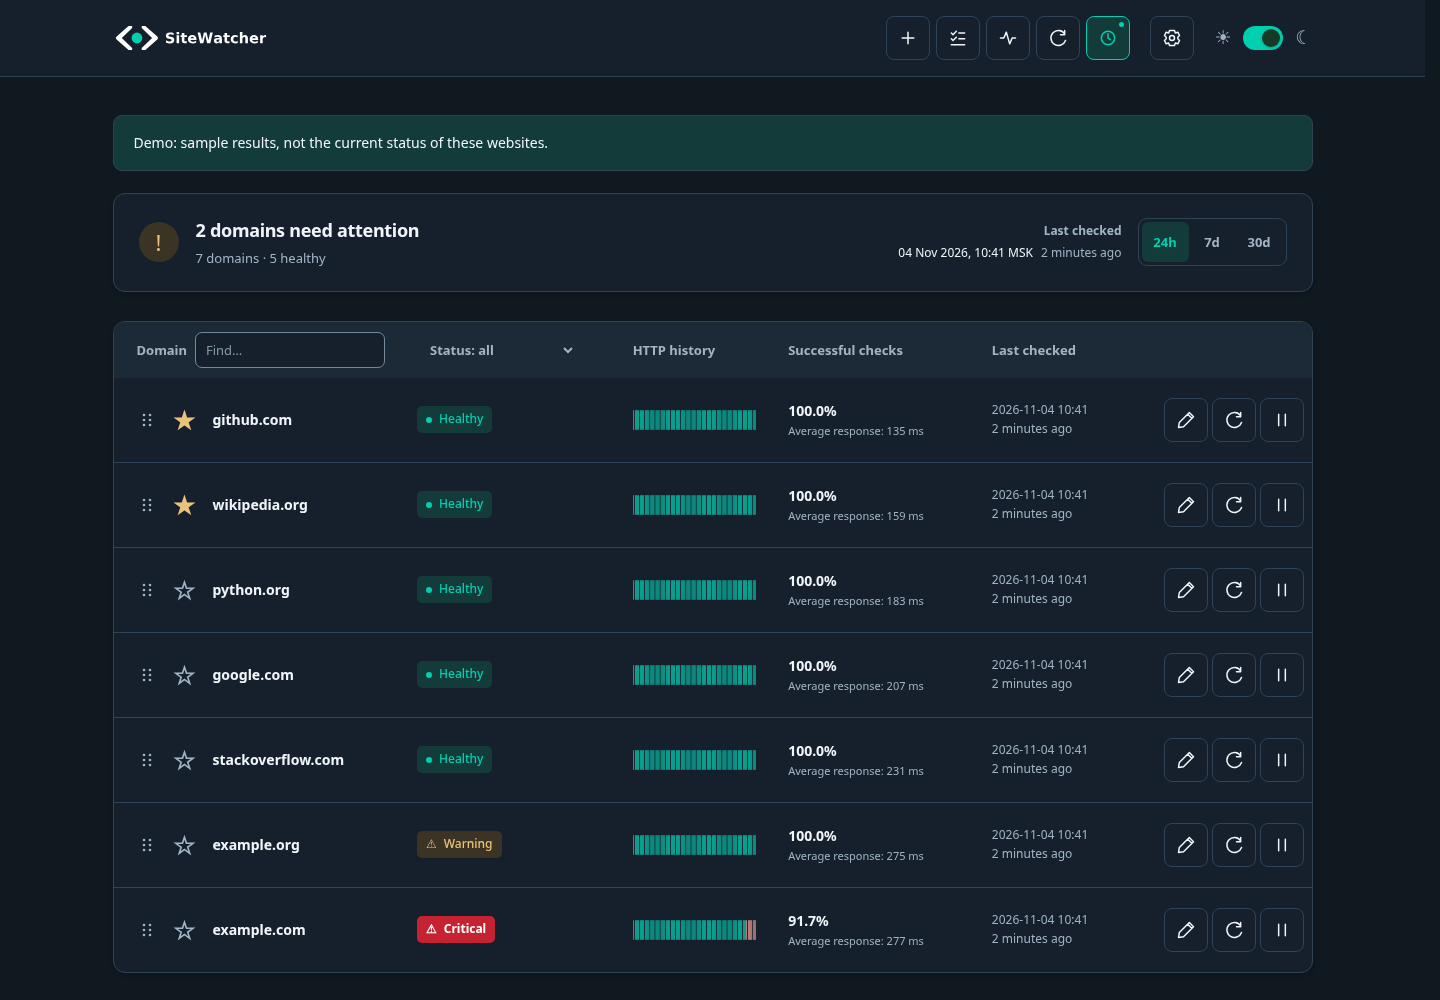
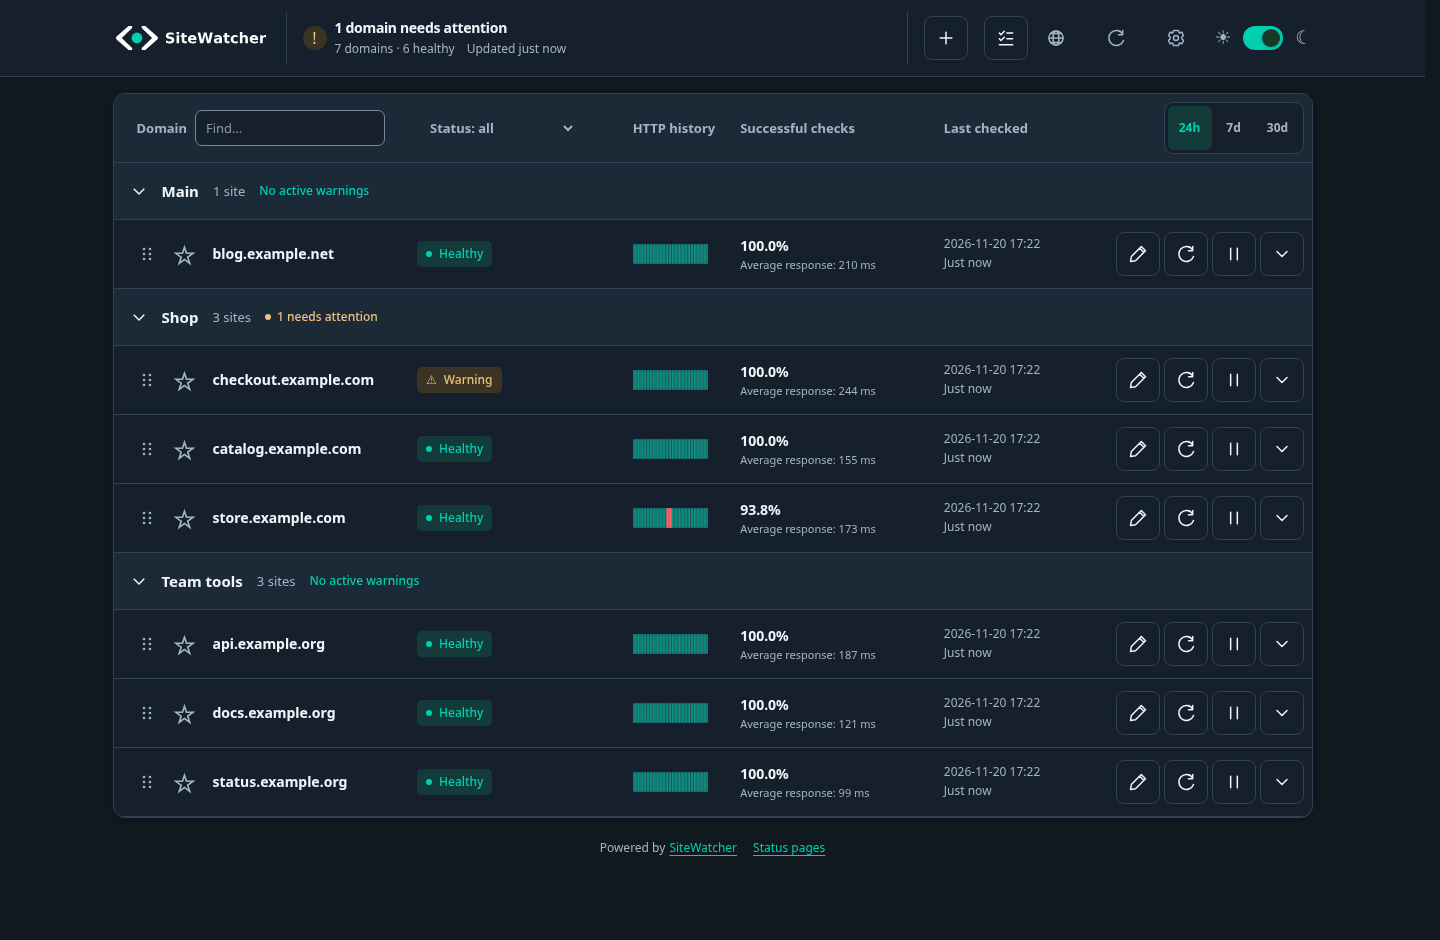
docs: refresh README screenshots and link to the live demo

diff --git a/README.ru.md b/README.ru.md
@@ -6,6 +6,7 @@
 </h1>
 
 <p align="center"><strong>Проверяет ваши сайты и сообщает, если что-то пошло не так.</strong></p>
+<p align="center"><strong><a href="https://monitoring.kurkov.dev/demo">Открыть демо</a></strong></p>
 <p align="center"><strong>Русский</strong> · <a href="README.md">English</a></p>
 
 [![Обзор сайтов в тёмной теме — демонстрационные данные](docs/screenshots/readme-overview-dark-ru.png)](docs/screenshots/readme-overview-dark-ru.png)
@@ -16,65 +17,39 @@
     <td width="50%"><a href="docs/screenshots/readme-history-dark-ru.png"><img src="docs/screenshots/readme-history-dark-ru.png" alt="История и время ответа сайта — демонстрационные данные"></a></td>
   </tr>
   <tr>
-    <td align="center">Как проходят проверки</td>
+    <td align="center">Центр сигналов</td>
     <td align="center">История и время ответа</td>
   </tr>
 </table>
 
-## Для чего это нужно
+В демо открывается публичная страница состояния. Посмотреть список сайтов и открыть Центр сигналов можно без входа. На скриншотах выше показана панель владельца с учебными данными.
 
-Чтобы держать под присмотром интернет-магазин, сайт компании или свои проекты. SiteWatcher собирает их состояние на одном экране: открывается ли сайт, быстро ли отвечает и нет ли других проблем.
+## Что можно проверять
 
-Программа помогает:
+- Открывается ли сайт, какой код HTTP возвращает и сколько времени отвечает.
+- Когда истекает срок действия сертификата HTTPS и регистрации домена.
+- Остались ли на странице нужные слова и нет ли признаков подмены сайта.
+- Не изменился ли IP-адрес, есть ли он в чёрных списках, доступны ли TCP-порты и как проходит маршрут до сервера.
+- Есть ли домен или его IP в списках блокировок Роскомнадзора. Совпадение по IP может относиться к соседнему сайту на общем хостинге.
 
-- Заметить, что сайт перестал открываться или стал медленным.
-- Узнать, когда пора продлить домен или сертификат для HTTPS.
-- Посмотреть историю и понять, когда появилась проблема.
-- Получать сообщения о сбоях и восстановлении по почте и в Telegram, выбирая каналы для каждого сайта.
-- Дать клиентам ссылку на страницу состояния выбранных сайтов.
+Для каждого сайта можно выбрать свои проверки. Результаты сохраняются в истории. При сбое SiteWatcher может прислать сообщение по почте или в Telegram. Состоянием выбранных сайтов можно поделиться через публичную страницу.
 
-## Что проверяет
-
-**Блокировки Роскомнадзора (РКН)** — отдельно по имени домена и его IP-адресу. Домен или его родительский домен в списке блокировок — критическая ошибка. IP в списке — предупреждение: на общем хостинге блокировка может относиться к другому сайту. Используются базы Antifilter и резервный источник bol-van; результат показывает наличие в этих списках, а не доступность у каждого провайдера.
-
-Также доступны:
-
-- **Доступность и скорость** — открывается ли страница, какой код ответа возвращает и сколько времени отвечает.
-- **Сертификат HTTPS и регистрация домена** — когда истекает срок действия.
-- **Содержимое страницы** — есть ли нужные слова и признаки подмены сайта.
-- **Репутация сайта** — сведения об угрозах из VirusTotal; нужен API-ключ. Отчёт для каждого домена кешируется в базе на 24 часа, включая ошибки провайдера. Ручная проверка и частое расписание этот срок не обходят. Если отчёта ещё нет, одна проверка может включать чтение и отправку URL на анализ; результат запрашивается повторно через сутки.
-- **IP-адреса** — изменился ли адрес сайта и есть ли он в настроенных чёрных списках.
-- **Сеть** — задержка соединения, доступность TCP-портов и маршрут до сервера.
-
-Набор проверок можно настроить для каждого сайта. Подробности — в [руководстве пользователя](docs/usage.ru.md).
-
-TLS, WHOIS, VirusTotal и репутация IP используют суточный кеш независимо от короткого интервала сайта. HTTP, смена IP, ping и порты остаются оперативными. Для TLS и WHOIS в деталях домена есть отдельное обновление сведений. Подтверждённая угроза сохраняется при сбое источника с указанием возраста данных.
-
-## Как это работает
-
-1. **Вы добавляете адрес сайта**, например `example.com` или `example.com/catalog/`.
-2. **SiteWatcher проверяет его по расписанию** и сохраняет результаты.
-3. **Вы смотрите панель или получаете уведомление**, если настроили уведомления.
-
-На карте можно наблюдать за ходом проверок. Для подробностей откройте историю сайта.
-
-SiteWatcher работает на вашем компьютере или сервере. Чтобы проверки продолжались, он должен оставаться включённым.
+Для некоторых проверок нужны внешние данные. Для VirusTotal понадобится API-ключ, а отчёты сохраняются в кеше на 24 часа. Настройка и расшифровка результатов есть в [руководстве пользователя](docs/usage.ru.md).
 
 ## Как запустить
 
-Нужны Git и запущенный [Docker](https://docs.docker.com/get-started/get-docker/) с Compose. Откройте терминал и выполните:
+Установите Git и Docker с Compose, затем выполните:
 
 ```bash
-mkdir sitewatcher &&
-cd sitewatcher &&
-git clone https://github.com/NikKurkov/sitewatcher.git . &&
-docker compose run --rm --build setup &&
+git clone https://github.com/NikKurkov/sitewatcher.git
+cd sitewatcher
+docker compose run --rm --build setup
 docker compose up -d
 ```
 
 Команда `setup` попросит придумать логин и пароль. Затем откройте **http://127.0.0.1:8080**, войдите и нажмите **«Добавить домен»** — значок **+** вверху.
 
-Базовые проверки работают сразу. Telegram и дополнительные сервисы можно подключить позже. По умолчанию панель доступна только на компьютере, где вы её запустили.
+Базовые проверки работают сразу. Telegram и дополнительные сервисы можно подключить позже. По умолчанию панель открывается только на той машине, где запущен SiteWatcher. Чтобы проверки продолжались, оставьте её включённой.
 
 ## Что дальше
 

diff --git a/README.md b/README.md
@@ -6,6 +6,7 @@
 </h1>
 
 <p align="center"><strong>Checks your websites and lets you know when something goes wrong.</strong></p>
+<p align="center"><strong><a href="https://monitoring.kurkov.dev/demo">Open the live demo</a></strong></p>
 <p align="center"><a href="README.ru.md">Русский</a> · <strong>English</strong></p>
 
 [![Website overview in dark mode — demo data](docs/screenshots/readme-overview-dark-en.png)](docs/screenshots/readme-overview-dark-en.png)
@@ -16,67 +17,38 @@
     <td width="50%"><a href="docs/screenshots/readme-history-dark-en.png"><img src="docs/screenshots/readme-history-dark-en.png" alt="Website history and response times — demo data"></a></td>
   </tr>
   <tr>
-    <td align="center">Watch checks in progress</td>
+    <td align="center">Signal room</td>
     <td align="center">History and response times</td>
   </tr>
 </table>
 
-## What is it for?
+The demo is a public status page in Russian. You can see the monitored sites and open the Signal room without signing in. The screenshots above show the signed-in workspace with sample data.
 
-Keep an eye on an online shop, a company website or your own projects. SiteWatcher brings them together on one screen so you can see whether they open, how quickly they respond and whether anything needs attention.
+## What can I monitor?
 
-It helps you:
+- Whether a site opens, what HTTP status it returns, and how long the request takes.
+- When its HTTPS certificate and domain registration expire.
+- Whether a page still contains the words you expect, or shows signs of defacement.
+- Changes to its IP addresses, blocklist and reputation reports, TCP ports, and the route to the server.
 
-- Notice when a website stops responding or becomes slow.
-- See when a domain or HTTPS certificate needs renewing.
-- Look through past checks to find when a problem started.
-- Get email and Telegram messages about problems and recovery, with channels selected per site.
-- Share a status page for the websites you choose.
+Choose the checks for each site. The dashboard keeps a history so you can see when a problem started. You can send alerts by email or Telegram and share a public status page for selected sites.
 
-## What does it check?
-
-Available checks:
-
-- **Availability and speed** — whether the page opens, its response code and response time.
-- **HTTPS certificate and domain registration** — when they expire.
-- **Page content** — required words and signs of website defacement.
-- **Website reputation** — threat reports from VirusTotal; an API key is required. Each owner/domain report, including provider failures, is cached in the database for 24 hours. Manual checks and shorter schedules cannot bypass this limit. A missing report may require both a lookup and URL submission; the next lookup takes place after a day.
-- **IP addresses** — address changes and IP blocklist checks through DroneBL,
-  Blocklist.de and PSBL by default. Each source must pass positive and negative
-  control queries. At least one completed clean source is enough for OK; missing
-  sources are noted as incomplete coverage. If none completes, the result is unknown.
-  Access errors never become false listings. Override sources with `ipbl.zones` in YAML.
-- **Network** — connection latency, TCP port availability and the route to the server.
-
-Choose which checks to run for each website. See the [user guide](docs/usage.en.md) for details.
-
-TLS, WHOIS, VirusTotal and IP reputation use daily observations even when a site has a shorter operational interval. HTTP, IP changes, ping and ports remain operational. TLS and WHOIS have separate refresh actions in domain details. A failed provider refresh retains confirmed threats with the original evidence age.
-
-## How does it work?
-
-1. **Add a website address**, such as `example.com` or `example.com/catalog/`.
-2. **SiteWatcher checks it on a schedule** and saves the results.
-3. **Open the dashboard or receive an alert** if you have configured notifications.
-
-The map shows checks moving between SiteWatcher and your websites. Open a site's history for the details.
-
-SiteWatcher runs on your computer or server. That machine must stay on for checks to continue.
+Some checks use external data. VirusTotal needs an API key, and its reports are cached for 24 hours. The [user guide](docs/usage.en.md) explains how to set up each check and read its results.
 
 ## Get started
 
-You need Git and a running [Docker](https://docs.docker.com/get-started/get-docker/) installation with Compose. Open a terminal and run:
+Install Git and Docker with Compose, then run:
 
 ```bash
-mkdir sitewatcher &&
-cd sitewatcher &&
-git clone https://github.com/NikKurkov/sitewatcher.git . &&
-docker compose run --rm --build setup &&
+git clone https://github.com/NikKurkov/sitewatcher.git
+cd sitewatcher
+docker compose run --rm --build setup
 docker compose up -d
 ```
 
 The `setup` command asks you to choose a username and password. Then open **http://127.0.0.1:8080**, sign in and click **Add domain** — the **+** icon at the top.
 
-Basic checks work straight away. You can connect Telegram and other services later. By default, the dashboard is accessible only on the computer running it.
+Basic checks work straight away. You can connect Telegram and other services later. The dashboard is local by default. Leave the computer or server running so checks can continue.
 
 ## Next steps
 
